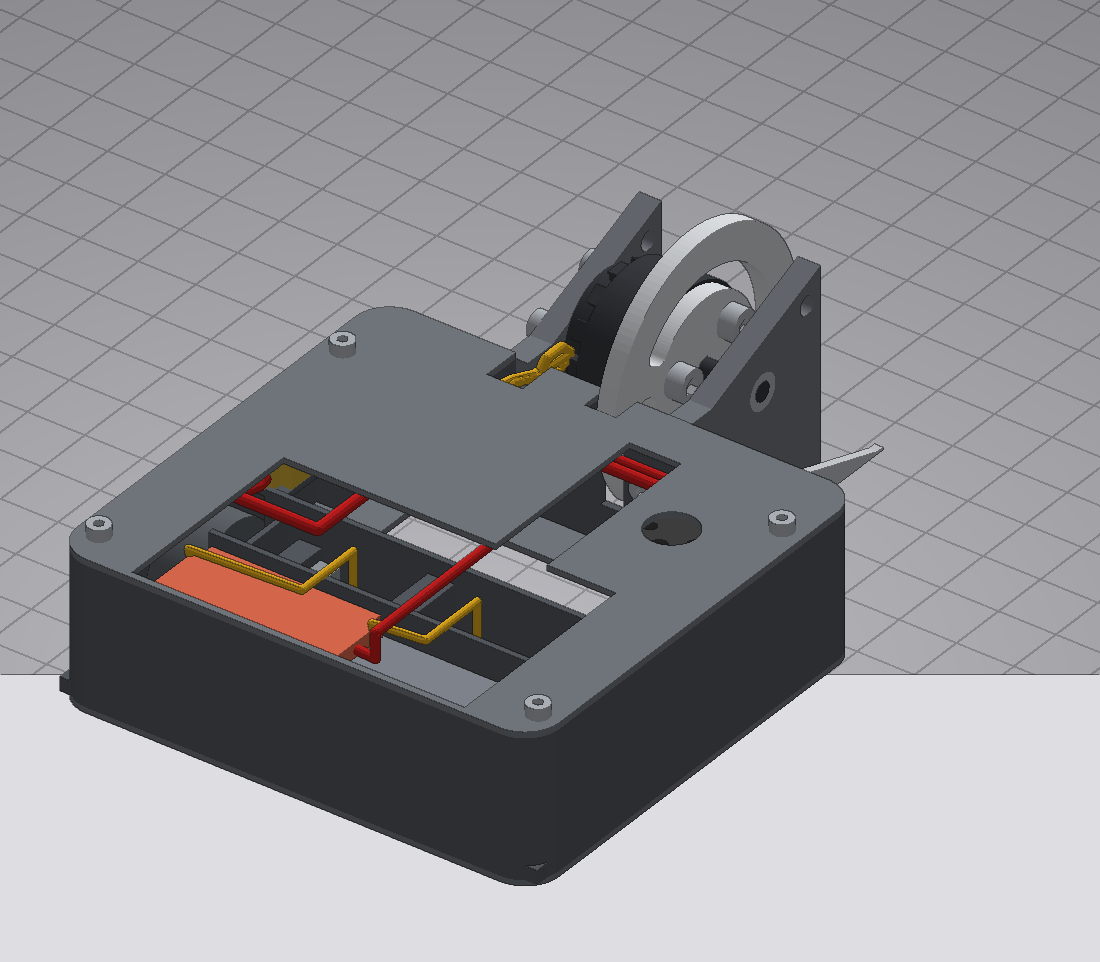
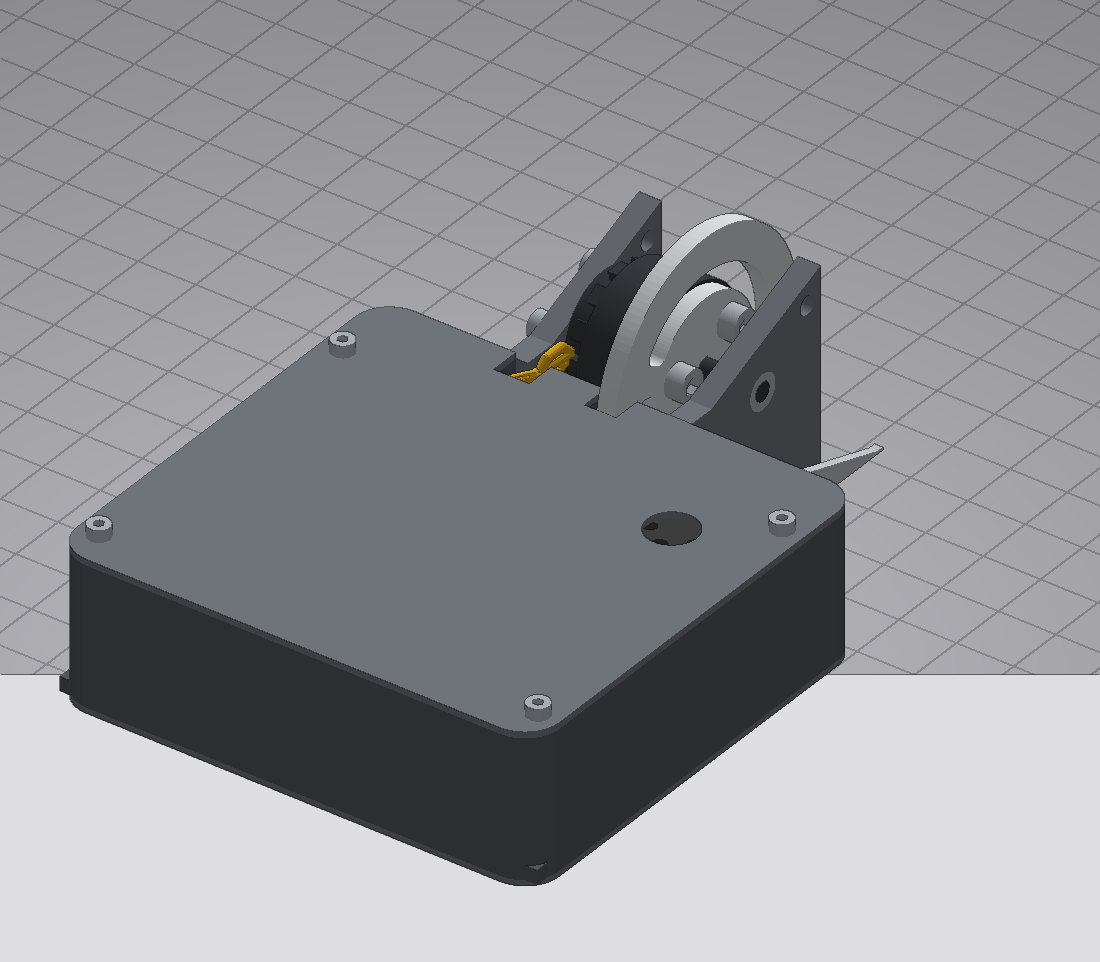
ripsaw: line-of-sight armour fix - merge dev (Small-LLM aids, contain.line_of_sight), solid top/base panels in place of the lightening windows, banded side-wall bosses + 5mm pads buy the 4.6g back (148.6g), phase leads declared external through the cable notch; deep gate green (0 blockers)

Changed region(s): [[0.1236, 0.4366, 0.6182, 0.7173], [0.4327, 0.3742, 0.4945, 0.4054]]

diff --git a/robots/ripsaw/src/ripsaw/panels.py b/robots/ripsaw/src/ripsaw/panels.py
@@ -1,7 +1,8 @@
 """Ripsaw top and base panels: printed nylon sheets on M2 screws into the tub's side-wall bosses.
 The base panel carries the N10 cradle pedestals (the motors drop in from below with the panel off) and clears the
 wheels; the top panel has a keyway over the switch (tool-free access, AWS), a slot clearing the weapon sweep and a
-notch for the phase leads. Both are windowed out over the battery bay to hold the mass budget."""
+notch for the phase leads. Both are SOLID armour: contain.line_of_sight requires every ray from the electronics and
+wires to hit armour, so the old lightening windows over the battery bay are filled in."""
 import build123d as bd
 
 from . import params as P
@@ -12,18 +13,6 @@ PANEL_HOLE_R = 1.3   # M2 clearance in the 1 mm sheet, wide enough for the count
 CSK_MOUTH_R = 2.0    # chamfer mouth under the base-panel screw heads (head rim dk 3.8 bears on the chamfer ring)
 CSK_HOLE_R = 1.85     # clearance hole past the head cone: the head drops in and seats rim-flush with the bottom face
 CSK_T = 0.1           # chamfer depth
-WIN_EDGE = 29.0      # window edge in x: clear of the wheel wells (31.8) and the screw bosses (35.8)
-WIN_BAY_Y0, WIN_BAY_Y1 = -8.0, 8.0     # battery-bay window split around the strap-post centreline
-WIN_FRONT_Y1 = 30.0  # front window edge in y: clear of the front-wall pads and the switch
-WIN_SWITCH_X1 = 17.0   # front window edge in x: clear of the switch (x 19.35..32.05)
-_BAY_Y0 = P.TUB_Y0 + P.WALL
-_BAY_Y1 = P.WHEEL_Y - P.WHEEL_OD / 2 - P.WHEEL_GAP
-_CRADLE_FRONT = P.CRADLE_Y1 + 1.0
-_BASE_WIN = ((-WIN_EDGE, WIN_BAY_Y0, _BAY_Y0, _BAY_Y1),
-             (WIN_BAY_Y1, WIN_EDGE, _BAY_Y0, _BAY_Y1),
-             (-WIN_EDGE, WIN_SWITCH_X1, _CRADLE_FRONT, WIN_FRONT_Y1))
-_TOP_WIN = ((-WIN_EDGE, WIN_EDGE, _BAY_Y0, _CRADLE_FRONT),
-            (WIN_BAY_Y1, WIN_SWITCH_X1, _CRADLE_FRONT, WIN_FRONT_Y1))
 
 
 def _screw_axes():
@@ -34,12 +23,6 @@ def _sheet(t, z0):
     s = bd.extrude(bd.Plane.XY.offset(z0) * T._outline(), t)
     for x, y in _screw_axes():
         s = s - bd.Pos(x, y, z0 + t / 2) * bd.Cylinder(PANEL_HOLE_R, 2 * t)
-    return s
-
-
-def _windows(s, z0, spans):
-    for x0, x1, y0, y1 in spans:
-        s = s - bd.Pos((x0 + x1) / 2, (y0 + y1) / 2, z0 + 0.5) * bd.Box(x1 - x0, y1 - y0, 2.0)
     return s
 
 
@@ -67,7 +50,6 @@ def base_panel():
         z0 = P.TUB_FLOOR_Z - P.PANEL_T_BASE
         s = s - bd.Pos(x, y, z0 + CSK_T / 2) * bd.Cone(CSK_MOUTH_R, CSK_HOLE_R, CSK_T)
         s = s - bd.Pos(x, y, z0 + P.PANEL_T_BASE / 2) * bd.Cylinder(CSK_HOLE_R, 2 * P.PANEL_T_BASE)
-    s = _windows(s, P.TUB_FLOOR_Z - P.PANEL_T_BASE, _BASE_WIN)
     for p in motor_pedestals():
         s = s + p
     s.label = "panel_base"
@@ -93,6 +75,5 @@ def top_panel():
     s = s - sweep
     s = s - bd.Pos(P.NOTCH_X, P.TUB_Y1 - P.PAD_T / 2, P.TUB_TOP_Z + P.PANEL_T_TOP / 2) \
         * bd.Box(P.NOTCH_W, P.PAD_T + P.NOTCH_EXIT, 2 * P.PANEL_T_TOP + P.NOTCH_EXIT)   # phase-lead cable notch, matches the tub wall notch
-    s = _windows(s, P.TUB_TOP_Z, _TOP_WIN)
     s.label = "panel_top"
     return s

diff --git a/robots/ripsaw/src/ripsaw/params.py b/robots/ripsaw/src/ripsaw/params.py
@@ -168,6 +168,7 @@ PANEL_T_TOP = 1.0         # printed top panel (nylon); Ti would cost ~6 g more (
 PANEL_SCREW = 2.0         # M2 panel screws into heat-set inserts (as Revron)
 PANEL_SCREW_Y = (25.0, -33.0)   # screw axes from the tub centreline: both outside the tyre circle (y -20 to 6)
 PANEL_BOSS_T = 5.0        # side-wall boss thickness behind the inner face (insert dia 3.2 + wall)
+BOSS_BAND = 1.5           # boss band overshoot past each insert (the bosses cover the insert seats, not the full wall)
 SHELF_T = 2.4             # rear shelf: battery seat + motor-cradle root (> MIN_WALL)
 SHELF_Y1 = -2.0           # shelf front edge (y): runs under the front cradle wall
 CRADLE_WALL_T = 1.0       # motor cradle side wall thickness (> MIN_WALL)
@@ -179,7 +180,7 @@ MOTOR_STOP_T = 1.0        # axial stop wall thickness at the gearbox face (> MIN
 MOTOR_STOP_GAP = 0.2      # gap between the drawn gearbox face and the stop (support.loose limit 0.2)
 STOP_Z0, STOP_H = 10.0, 10.0   # axial stop band: over the gearbox body
 CENTRAL_STOP_T = 4.7      # stop between the two can backs: 0.2 play each side (faces flush with the pedestal slot edges)
-PAD_T = 6.6               # front-wall pad: spans the wall band (TUB_Y1-PAD_T..TUB_Y1), screws enter its inner face
+PAD_T = 5.0               # front-wall pad: spans the wall band (TUB_Y1-PAD_T..TUB_Y1), screws enter its inner face
 PLATE_SCREW_Z = (8.0, 14.0, 20.0)        # plate mounting screw heights (through the heel into the wall pads); top hole clears the cable notch
 DISC_SLOT_HALF = DISC_T / 2 + 1.25       # weapon rub gap each side of the disc in the slot (kin.rub_gap 1.0)
 WIRE_Z = 24.5             # wire corridor height: 1.5 over the cradle tops, under the top panel

diff --git a/robots/ripsaw/src/ripsaw/tub.py b/robots/ripsaw/src/ripsaw/tub.py
@@ -75,13 +75,15 @@ def front_pads():
 
 
 def side_bosses():
-    """Bosses thickening the side walls where the panels screw on (heat-set inserts along Z)."""
+    """Bosses thickening the side walls where the panels screw on (heat-set inserts along Z): a band round each
+    insert seat, not the full wall height (mass)."""
     out = []
     for sx in (1, -1):
         for sy in P.PANEL_SCREW_Y:
-            out.append(bd.Pos(sx * (P.TUB_W / 2 - P.WALL - P.PANEL_BOSS_T / 2), sy,
-                              (P.TUB_FLOOR_Z + P.TUB_TOP_Z) / 2)
-                       * bd.Box(P.PANEL_BOSS_T, 2 * (P.INSERT_D / 2 + P.WALL), P.TUB_TOP_Z - P.TUB_FLOOR_Z))
+            for z0, z1 in ((P.TUB_FLOOR_Z, P.TUB_FLOOR_Z + P.INSERT_L + P.BOSS_BAND),
+                           (P.TUB_TOP_Z - P.INSERT_L - P.BOSS_BAND, P.TUB_TOP_Z)):
+                out.append(bd.Pos(sx * (P.TUB_W / 2 - P.WALL - P.PANEL_BOSS_T / 2), sy, (z0 + z1) / 2)
+                           * bd.Box(P.PANEL_BOSS_T, 2 * (P.INSERT_D / 2 + P.WALL), z1 - z0))
     return out
 
 

diff --git a/robots/ripsaw/BRIEF.md b/robots/ripsaw/BRIEF.md
@@ -1,6 +1,6 @@
 # Ripsaw: design brief
 
-> **UNTESTED: never built or run.** The spec passes the deep gate (`robot verify --deep`, 0 blockers, mass 145.7 g);
+> **UNTESTED: never built or run.** The spec passes the deep gate (`robot verify --deep`, 0 blockers, mass 148.6 g);
 > every number below is still an estimate from `src/ripsaw/params.py` relations and catalogue values.
 
 ## Architecture
@@ -25,7 +25,9 @@
 - Ground game: two Revron fork_5 parts (1.5 mm Ti, reused unchanged), hung on M3 pins through the plates' outer faces —
   self-levelling skids, tips 0.5 mm off the floor so the wheels alone set the contact patch.
 - Tub: printed nylon unibody (wall ring, rear shelf, cradles, front-wall pads, side-wall bosses, ESC ledge, strap
-  posts), open top and bottom; printed base and top panels on M2 screws into heat-set inserts (as Revron).
+  posts), open top and bottom; printed base and top panels on M2 screws into heat-set inserts (as Revron). Both
+  panels are SOLID armour (the old lightening windows are gone: contain.line_of_sight requires every ray from the
+  electronics and wires to hit armour); the side-wall bosses are bands round the insert seats to pay for the glass.
 
 ## Load path / what rotates
 | Rotates (weapon) | Fixed |
@@ -47,9 +49,9 @@ Sizing: TUB_BODY_L 78, RAIL_L 24. Optional `"aws_v43_cube"`: the 101.6 mm cube (
 | Fork tips | y 83, behind the disc front (y 79) |
 
 ## Mass budget (2S build)
-Verifier total **145.7 g** (range 128.6-162.7; 8 g of the range is catalog estimates — weigh the real parts).
+Verifier total **148.6 g** (range 131.0-166.2; 8 g of the range is catalog estimates — weigh the real parts).
 Big items: 2004 stator 5.5 + bell 6.0, disc 26 (hardox, 3559 mm3 x 7.9), battery 28, 2x N10 16, 2x wheel 3.6,
-tub 21.4 cm3 nylon (x1.12 x0.85 about 20), panels 8.2, ESCs 7.3, switch 2.15, forks + pins 4.6, fasteners 3.5,
+tub 19.3 cm3 nylon (about 21), solid panels 12.7 cm3 (about 14.2), ESCs 7.3, switch 2.15, forks + pins 4.6, fasteners 3.5,
 wires + XT30 4, allowance 1.2.
 
 ## Energy (verifier)

diff --git a/robots/ripsaw/README.md b/robots/ripsaw/README.md
@@ -1,6 +1,6 @@
 # Ripsaw
 
-**UNTESTED: never built or run.** The spec passes the deep gate (`robot verify --deep`: 0 blockers, mass 145.7 g against
+**UNTESTED: never built or run.** The spec passes the deep gate (`robot verify --deep`: 0 blockers, mass 148.6 g against
 the 150 g limit; warnings remain, mainly catalog mass estimates). Renders in `renders/` are verifier-generated.
 
 A 150 g AWS antweight vertical disc spinner: a 44 mm single-tooth hardox disc on a Repeat 2004 2800 kV hub motor, carried
